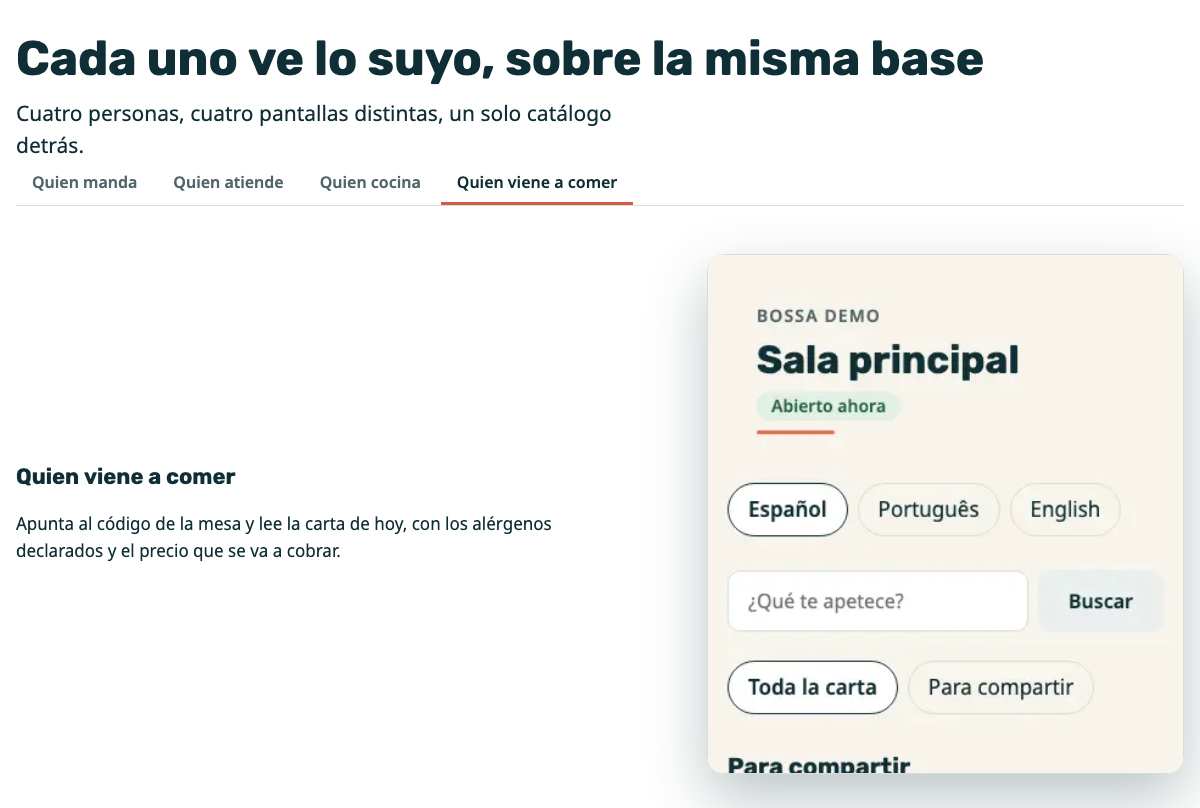
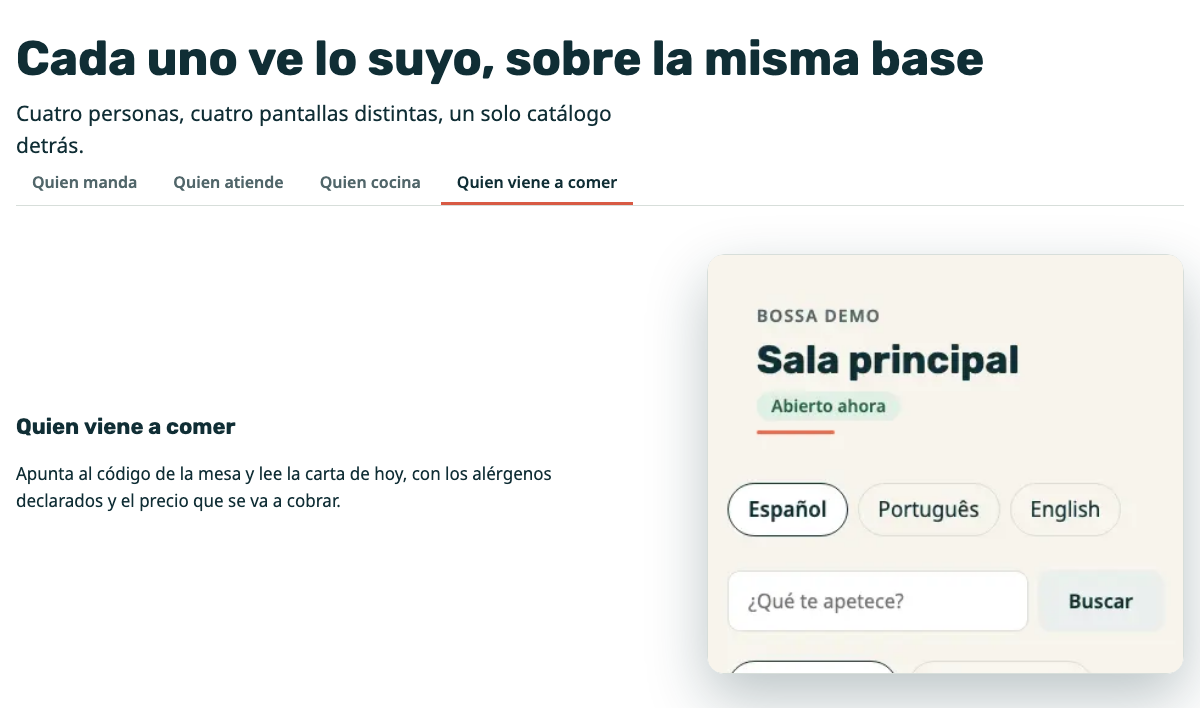
Bloco 4 fechado contra a regua, com capturas carimbadas
Os oito criterios passam. A tabela medida esta no fim do ALVO-BLOCO-4.md,
que e onde se compara promessa com entrega.

Regista o que foi exercido e nao lido: Tab desde o topo, doze ate ao
selector, setas a trocar, e o plante das quatro composicoes iguais a
recusar pelo motivo certo.

Regista os tres defeitos meus apanhados pelo caminho e as duas coisas por
decidir: a ampliacao de 1,53x do quarto papel, que passa a regua na formula
que ela tem, e o vazio que sobra na coluna do texto, que e composicao e
portanto e da Nathalia.

E regista que nao existe ficheiro de matriz de execucao em docs/progress -
quem rastreia blocos e o HANDOFF e as reguas.

Deixa escrita a pendencia que mordeu: o infra/papeis.sh exige um .env.prod
que nao existe aqui, os papeis do app e do auth nunca foram aplicados a
base recriada, e o projecto preparar falha com 500. Este bloco correu com
--no-deps por a landing ser publica; as suites com sessao estao bloqueadas.

Claude-Session: https://claude.ai/code/session_01NBLb4xmcXVSfngcepm5hz6

diff --git a/docs/reviews/ALVO-BLOCO-4.md b/docs/reviews/ALVO-BLOCO-4.md
@@ -41,3 +41,65 @@ Se o bloco é bonito, e se os quatro papéis são os quatro certos para o negóc
 O primeiro é da Nathalia; o segundo, se o JR achar que os quatro nomeados no norte
 não são os do BossaOS real, **é achado e vem a mim** — não se corrige um documento do
 Matheus por iniciativa nossa.
+
+---
+
+## Resultado, medido contra esta régua — 08/09
+
+Entrega em `428b0c5` e `23a4bb2`. Prova: `inspeccao/rv100-papeis.spec.ts`.
+Controlo negativo: `scripts/provar-rv100-papeis.sh`.
+
+| # | exige | medido | veredicto |
+|---|---|---|---|
+| 1 | quatro papéis | 4 separadores, 4 nomes distintos, nas 3 línguas | **ok** |
+| 2 | um ecrã por papel | `imagens_no_bloco=4`, `imagens_distintas=4` | **ok** |
+| 3 | troca o ecrã **e** o benefício | 4 `src` distintos **e** 4 textos distintos | **ok** |
+| 4 | por teclado | `Tab` desde o topo: **12** até ao selector; setas trocam; foco acompanha | **ok** |
+| 5 | leitor de ecrã | 1 `tablist`, 1 `aria-selected`, 0 `aria-controls` órfãos | **ok** |
+| 6 | crops legíveis | 12 medições: **13,0 px** nos papéis 1-3 e **21,4 px** no 4 (pede 11) | **ok** |
+| 7 | um painel visível | `1` | **ok** |
+| 8 | nenhuma guarda afrouxada | `validar-classes` 0 falhas; nada tocado em `scripts/validar` | **ok** |
+
+**O critério 4 e o 5 foram exercidos, não lidos.** A prova carrega `Tab` a partir
+do topo do documento, sem foco programado — chegar ao selector custa 12 tabulações
+— e depois setas, e mede o que mudou **no ecrã**. Um `role="tab"` no HTML nunca é
+aceite como resposta.
+
+**O critério 3 recusou:** com as quatro composições iguais, a prova fica vermelha
+com «1 imagens distintas nos quatro papéis», e o guião confirma o **motivo** do
+vermelho — um vermelho por a página não abrir provaria outra coisa.
+
+### O que reutilizei, e porquê não construí
+
+O `Separadores` de `packages/ui` já existia, com `tablist`, `aria-selected`,
+`aria-controls`, `tabIndex` rotativo e setas com `Home`/`End`. Construir um
+selector novo seria **uma segunda forma de fazer o que o pacote já faz**.
+
+### O par papel-ecrã não é estético
+
+A cópia de cada papel nomeia o artefacto: «o catálogo, os preços» → `catalogo`;
+«em pé e com uma mão» → `tablet`, cujo `alt` diz «o aparelho que fica na mão de
+quem serve»; «uma tela com o que tem de preparar» → `kds`; «lê o cardápio» →
+`carta`. A `sala` fica de fora: já é o herói.
+
+### Três defeitos apanhados pelo caminho, os três meus
+
+1. **O `sizes` prometia 390 px para uma ranhura de 477** — sondado, não estimado.
+   O navegador ampliava 1,22×. Corrigido para `40vw`: passa a reduzir 0,93×.
+2. **A minha medição do critério 6 lia painéis escondidos pelo atributo `width`**
+   em vez da caixa, e dizia «51,7 px efectivos» sobre um painel fora do ecrã. Foi
+   um `1440` impossível num visor de `1280` que me mandou sondar.
+3. **A moldura deixava ~230 px de vazio** ao lado de um benefício de cada vez —
+   visto na captura. Desceu de 520 para 420.
+
+### Declarado, e por decidir
+
+- **O quarto papel amplia 1,53×** (composição móvel de 312 px numa caixa de 477).
+  Passa o critério 6 porque ampliar conta como «mais legível» na fórmula da
+  régua, mas continua a ser desfoque. **Não invento um limiar que a régua não
+  tem** — fica para o sénior.
+- **Sobra vazio na coluna do texto**, menor que antes. É composição, e a régua
+  diz que se o bloco é bonito é da Nathalia.
+- **As capturas são em `es-ES`**, quatro, à largura a que são mostradas (1280;
+  a secção sai a 1200). Dossiê `docs/visual/rv100/2026-09-08_papeis`, a retratar
+  `23a4bb2` pelo carimbo do próprio manifesto.

diff --git a/docs/progress/HANDOFF.md b/docs/progress/HANDOFF.md
@@ -4374,3 +4374,38 @@ procurar quem já fazia a coisa. O `caixa.test.ts` limpa as três tabelas com
   porque as medições em que assentavam eram falsas. Aguarda palavra dele.
 - Continuam retidos: o quarto passo do bloco 2 (Caja), as três capturas da sala,
   a regeneração da página das telas-mestre, e o bloco 4 (§4.5) por começar.
+
+## Bloco 4 (§4.5) FEITO, com o critério 3 exercido e recusado — 08/09
+
+Entrega em `428b0c5` e `23a4bb2`; a tabela contra a régua está no fim de
+`docs/reviews/ALVO-BLOCO-4.md`. **Os oito critérios passam.**
+
+O bloco tinha quatro papéis em lista estática e **uma** fotografia; passa a ter
+quatro painéis, um por papel, cada um com **o seu ecrã e o seu benefício**.
+Reutilizei o `Separadores` de `packages/ui` em vez de construir um selector novo.
+
+**O que não se aceitou por inspecção:** a prova carrega `Tab` desde o topo do
+documento — 12 tabulações até ao selector — e depois setas, e mede o que mudou no
+ecrã. E `scripts/provar-rv100-papeis.sh` planta as quatro composições iguais e
+exige vermelho **pelo motivo certo**.
+
+**Três defeitos meus apanhados pelo caminho:** o `sizes` prometia 390 px para uma
+ranhura de 477 (ampliava 1,22×); a minha medição do critério 6 lia painéis
+escondidos pelo atributo em vez da caixa; e a moldura deixava ~230 px de vazio.
+Os três corrigidos e escritos.
+
+**Por decidir, e declarado:** o quarto papel amplia 1,53× e passa a régua na
+mesma, porque ampliar conta como «mais legível» na fórmula — não inventei limiar
+novo. Capturas em `docs/visual/rv100/2026-09-08_papeis`, a retratar `23a4bb2`.
+
+**Nota de arrumação:** não existe ficheiro de «matriz de execução» em
+`docs/progress/`. Quem rastreia blocos é este HANDOFF e as réguas
+`ALVO-BLOCO-*.md`; o resultado foi para a régua, que é onde se compara promessa
+com entrega.
+
+**Pendência que MORDEU hoje:** `infra/papeis.sh` exige um `.env.prod` que não
+existe nesta máquina, e por isso as permissões de `bossaos_app`/`bossaos_auth`
+**nunca foram aplicadas à base recriada**. O projecto `preparar` da inspecção
+falha com **500** por causa disso. A prova deste bloco corre com `--no-deps`
+porque a landing é pública, mas **todas as suites com sessão estão bloqueadas
+até os papéis serem repostos.**
